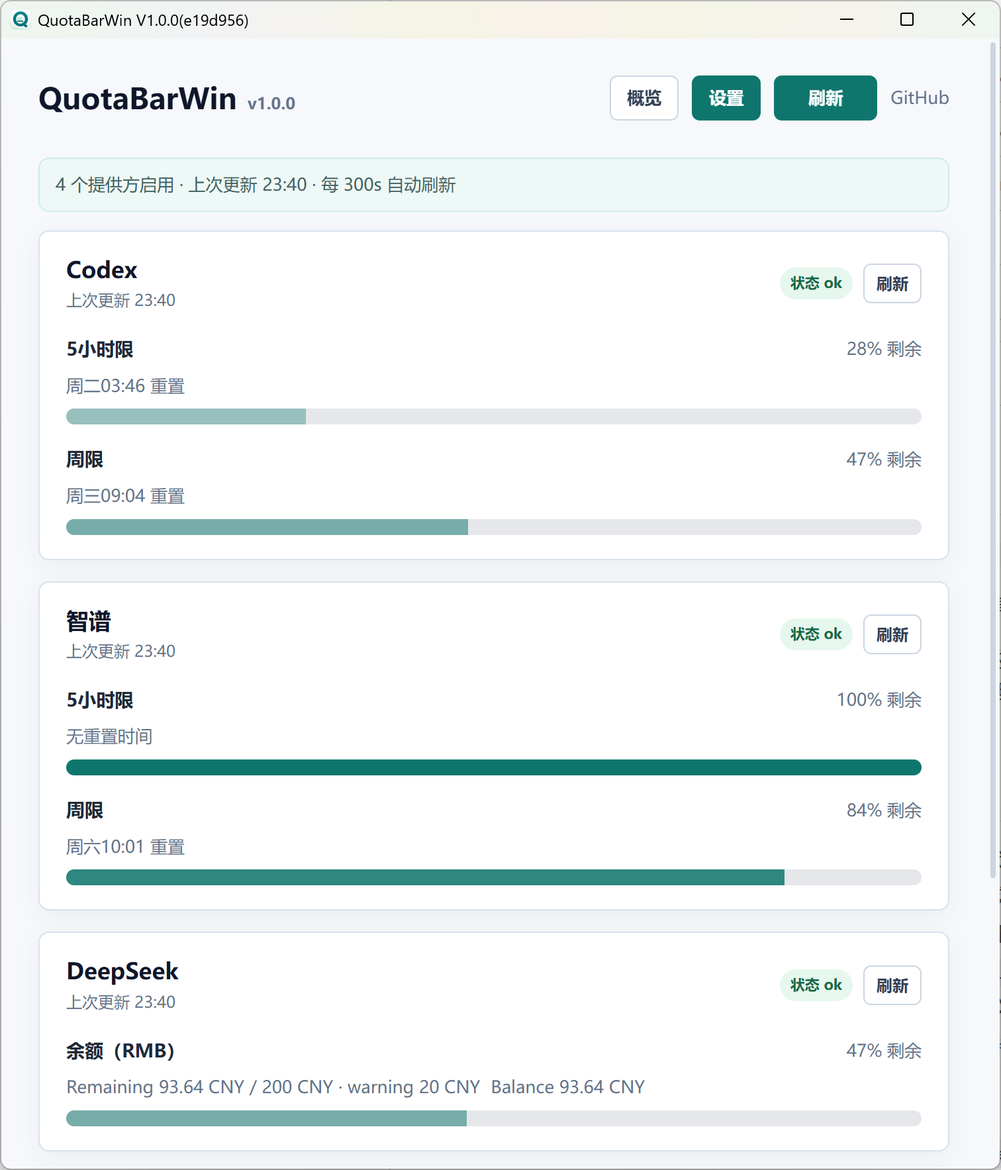
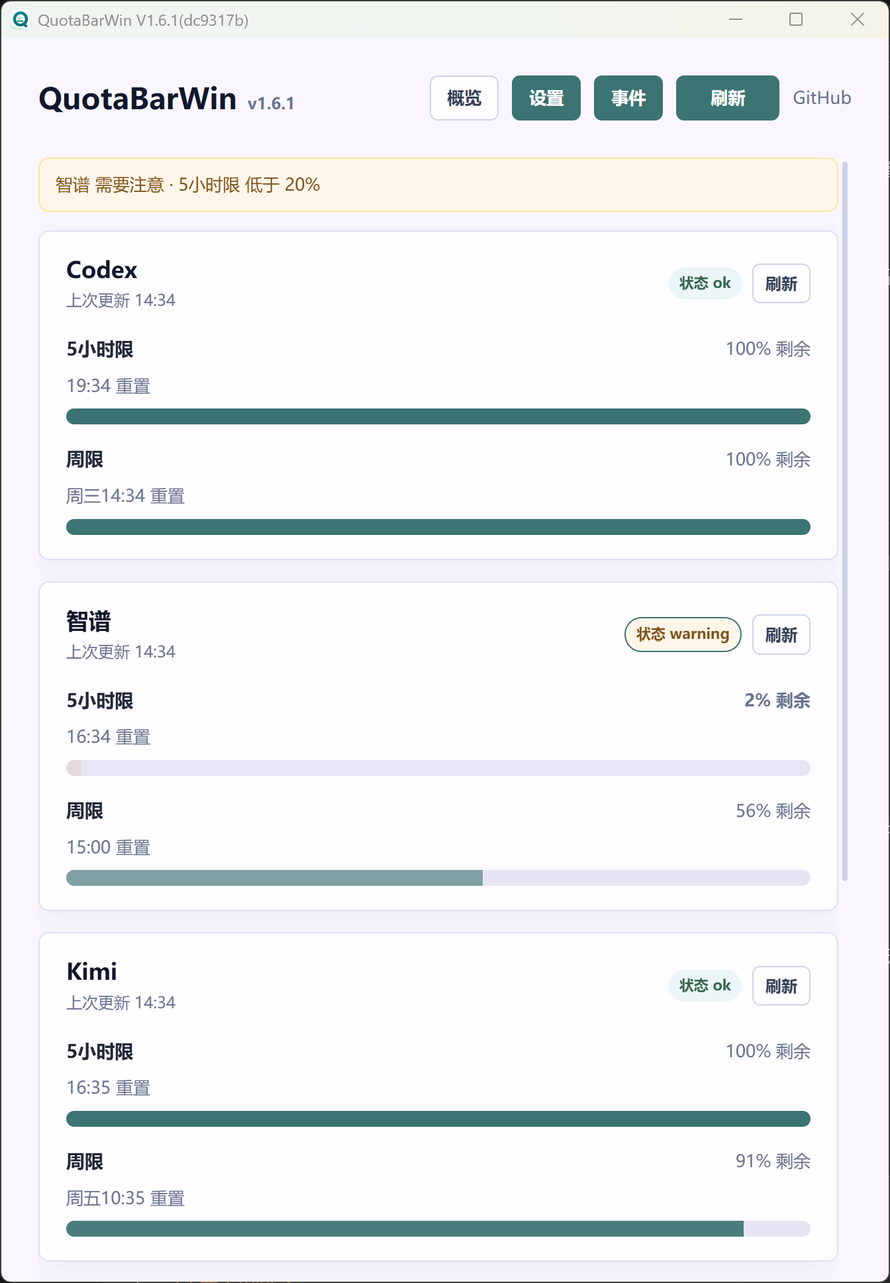
docs: refresh screenshots, link the changelog, and add its English edition
- README (both languages) now shows the 1.6.1 screenshots in order:
  overview, settings Providers, settings General, settings
  Notifications, events, tray popup — replacing the single outdated
  settings capture
- Both READMEs link the changelog from the documentation index
- New CHANGELOG.en.md mirrors all 23 release sections of CHANGELOG.md
  (UI wording follows the app's English strings); the Chinese header now
  cross-links it, and AGENTS.md notes the two files must stay in sync

diff --git a/CHANGELOG.en.md b/CHANGELOG.en.md
@@ -1,0 +1,282 @@
+# Changelog
+
+This file records user-visible changes in QuotaBarWin. Simplified Chinese counterpart: [CHANGELOG.md](CHANGELOG.md).
+
+## [1.6.1] - 2026-10-07
+
+### Added
+
+- Windows system notifications now append the local time of the event (`MM-DD HH:mm`) to the end of the notification body.
+- Added a "Quota expiry time changed" event: a window that consumed no quota at all in the previous cycle is now recorded as this event when its cycle rolls over (including the expiry times before and after the change), instead of as "Quota reset"; the event is excluded from notifications by default and can be enabled individually under Settings → Notifications.
+- Webhook notifications support multiple endpoints (each with its own URL, message template, and timeout). Events are delivered to every enabled endpoint, and one endpoint failing does not affect the others. Each endpoint can define a custom message template: when set, each selected event renders and sends its own request, with placeholders such as `{{message}}` (the notification body including the event time), `{{eventType}}`, `{{providerName}}`, `{{windowLabel}}`, `{{occurredAt}}`, and `{{eventJson}}`; a rendered body that parses as valid JSON is sent as JSON, otherwise as plain text; leaving the template empty keeps the previous JSON batch format. Next to the template input in Settings, a new "Open the webhook template guide" entry opens the built-in offline bilingual guide (with the full placeholder table, the default JSON batch structure, and template examples for DingTalk, Feishu, and similar services).
+
+### Changed
+
+- All in-app confirmation dialogs (reset config, clear event history, migrate Provider source, etc.) now use the app's own styling instead of system dialogs with browser chrome; the notice shown when a duplicate launch is rejected is now an in-window toast as well.
+- Configuration backup files (from migration, reset, and corruption recovery) are now collected under the `bak` subdirectory of the configuration directory instead of sitting flat next to the config; on first run the app also sweeps leftover backups from older versions into `bak` automatically.
+
+### Fixed
+
+- Fixed quota-reset event detection: a window with no usage at all (staying at 0% for a long time) was misrecorded as "Quota reset" and repeatedly notified at every cycle rollover; when a provider temporarily stopped reporting the reset time right after a window rolled over (with usage already zeroed), that reset was missed; a window that rolled over earlier than previously announced (reset time moved earlier and quota emptied) was misjudged as "Unexpected quota recovery" instead of "Quota reset". All of these scenarios are now classified correctly, and "Unexpected quota recovery" is reserved for quota reappearing mid-cycle while the reset time is completely unchanged.
+- Fixed the Settings page still prompting for a manual save after "Reset config": a reset now takes effect immediately and syncs the Settings page state, so no extra save click is needed.
+- Fixed the tray popup header (title, buttons, status line) sitting too close to the left and right edges of the popup.
+
+## [1.6.0] - 2026-10-06
+
+### Added
+
+- Added an in-app event history page (the "Events" tab at the top of the main window): it records events such as application started, upgrade completed, quota reset, unexpected quota recovery, quota exhausted, quota low, and Provider refresh failures and recoveries, with category filters, refresh, and clear actions; startup events record the version at that time (including the short commit hash). Events are stored only in the local configuration directory, capped at 200 entries.
+- Added quota event notifications, enableable under Settings → Notifications: two channels are supported, Windows system notifications (toast) and webhooks, and the event types to notify can be selected individually. Windows notifications now use the QuotaBarWin branded icon; when Windows system notifications are turned off, the app automatically clears the local notification registration (AppUserModelID), so no manual cleanup is needed. "Send test notification" uses the values currently entered in the form, so there is no need to save first.
+- Webhook notifications deliver the selected events as a JSON POST to the configured address; the URL supports `${secret:NAME}`, `${env:NAME}`, and `${file:...}` placeholders so token-bearing addresses are not written into the config in plaintext; requests follow the app's global proxy settings, and delivery failures are recorded only in redacted local logs.
+- Notifications are evaluated after each refresh confirms a change, so they arrive on the next refresh after the change happens (default interval 300 seconds, adjustable in Settings).
+- Added an "Open guide" entry at the bottom of the Settings page's left navigation, which opens the built-in remote Provider usage guide at any time.
+
+### Changed
+
+- The Settings page is reorganized into five categories (Providers / General / Notifications / Application update / Advanced), switched via the left navigation: the network proxy, local integration API, secret security, configuration storage, and logging settings moved into Advanced; the low-quota warning threshold is now edited on the Notifications page, while General shows a summary with a one-click jump. The save flow for all settings (bottom save bar / Ctrl+S) and the config file format are unchanged, so existing configuration needs no reconfiguration.
+- The network proxy no longer requires choosing between HTTP and SOCKS5 manually: after selecting "Custom proxy", the protocol prefix of the address (`http://`, `socks5://`, etc.) is detected automatically, and existing configuration remains fully compatible.
+- Closing the main window with unsaved settings changes now asks whether to save or discard before hiding to the tray, so changes are not lost by accident.
+- Copying the config file path or the portable marker path in Configuration storage now shows a "Path copied to the clipboard" notice instead of copying silently.
+- The built-in usage guide now uses the "Provider" naming throughout and organizes its instructions and examples around the built-in QuickJS runtime (`builtin-js`) as the recommended path.
+
+### Fixed
+
+- Fixed Provider card shadows being clipped on the left and right sides in the tray popup, and restored the spacing between the header area and the popup edges.
+
+## [1.5.2] - 2026-10-05
+
+### Added
+
+- The Secret security encryption migration now also covers manually created txt secret files under the `secrets` directory (including the startup migration prompt and the plaintext count): once encrypted, these files still resolve through the same `${secret:NAME}` placeholder, but they can no longer be edited directly in a text editor; disabling encryption restores them to plaintext.
+- When encryption is enabled but plaintext secret files are still detected (for example, encryption was enabled on an older version whose migration did not cover hand-managed files at the time), Secret security now shows an "Encrypt remaining plaintext secrets" button that completes the migration in one click, without toggling encryption off and on again.
+
+### Fixed
+
+- Right-clicking inside the app no longer opens the WebView's built-in web menu (entries such as "Refresh" reload the interface, which conflicts with how the app behaves); Cut/Copy/Paste from right-clicking input fields still work, and shortcuts such as Ctrl+C on selected text are unaffected.
+
+## [1.5.1] - 2026-10-05
+
+### Fixed
+
+- When a Provider bumps only its version number without changing the script (for example, an official Provider moving from 1.1.0 to 1.2.0), "Check Updates" now correctly reports an available update and can apply it, instead of showing the old version and claiming it is up to date.
+- After copying or moving the portable app directory, the Provider cache no longer follows the old directory: the cache is always resolved beside the current app directory, so deleting or updating Providers in the copied instance no longer removes or overwrites the cache in the original directory.
+- When the Provider cache directory is missing or corrupted (for example, accidentally deleted), refreshing now repairs it automatically by re-downloading from the configured manifest URL, instead of requiring the Provider to be added again manually to restore readings.
+- The CLI's `validate --provider` likewise validates the Provider cache beside the active configuration directory; a missing cache now produces an actionable hint (refresh once in the app to repair it automatically) instead of relying on stale paths recorded in the config.
+
+## [1.5.0] - 2026-10-05
+
+### Added
+
+- Provider secrets support local encrypted storage: secrets are encrypted with Windows data protection (DPAPI), and the ciphertext can only be decrypted by the current Windows account. Newly saved secrets are encrypted by default; users upgrading from older versions see a one-time confirmation prompt on first launch asking whether to migrate existing plaintext secrets to encrypted storage, and encryption can also be enabled or disabled later in the Settings page's Secret security section.
+
+### Fixed
+
+- After an update check fails temporarily (for example, the update server is briefly unreachable), a previously detected update can still be downloaded normally, instead of incorrectly demanding a fresh check first.
+- An already downloaded update package is no longer discarded because a later update check fails, so it does not need to be downloaded again.
+- After restarting the app, a previously detected update can still be downloaded directly: the signed manifest is re-verified offline and the downloaded package is reused, even when the update server is temporarily unreachable.
+- Downloading a large update package over a slow connection no longer breaks on a fixed 30-second total timeout; the download timeout now scales with the package size.
+- Provider refresh network problems no longer show as a single cryptic HTTP error: a timed-out request reports the timeout in seconds and the domain that did not respond, a failed connection reports the specific reason, and when a proxy is configured the message clearly notes that traffic goes through the proxy, making it easier to tell proxy problems from target API problems.
+- URLs in logs and the UI now keep the domain name, making it easier to see which API failed; paths, query strings, and credentials remain hidden.
+- When adding a Provider, the "View guide" link below the secret input now opens the help documentation in the system browser correctly.
+
+## [1.4.2] - 2026-09-19
+
+### Fixed
+
+- The tray popup no longer retains the previous keyboard focus when reopened, avoiding stray focus rings and Enter accidentally triggering the previously selected button.
+
+## [1.4.1] - 2026-08-24
+
+### Fixed
+
+- A temporarily failed application update check is retried automatically, so later checks on the same day are not skipped.
+- When a manual check finds a new version, the main window and tray popup show the update notice promptly.
+- The main window and tray popup now keep a minimum size at which they still render correctly, preventing broken layouts when scaled too small.
+
+## [1.4.0] - 2026-08-24
+
+### Added
+
+- Added theme selection in Settings: follow the Windows system theme, or pin the app to the light or dark theme.
+- The main window and tray popup both apply the selected theme consistently.
+
+### Fixed
+
+- After a newly added Provider completes "Save and test", it now refreshes immediately and appears in the overview, without waiting for the background scheduled refresh.
+
+## [1.3.0] - 2026-08-20
+
+### Added
+
+- Added a local integration HTTP API that on-device automation, scripts, browser extensions, and other desktop tools can use to read quota snapshots or trigger refreshes directly.
+- Added "Local Integration API" in Settings: start or stop the service, change the port, and choose to listen on the loopback address, multiple active IPv4/IPv6 adapters, or all active adapters.
+
+### Security
+
+- Disabled by default; when enabled, it listens only on `127.0.0.1`. Network listeners can keep the token-free loopback address at the same time; enabling external adapters requires saving a manually entered or randomly generated Bearer token first, and network listener settings cannot be saved without a stored token; a saved token is displayed masked and can be copied, replaced, or regenerated.
+- API responses never include Provider metadata, diagnostics, or sensitive error content, and the API provides no way to write configuration, Providers, or credentials.
+
+## [1.2.3] - 2026-08-15
+
+### Changed
+
+- "Automatically check for application updates" is enabled by default; users can still turn it off in Settings at any time.
+- Improved temporary file cleanup after an application update.
+
+## [1.2.2] - 2026-08-15
+
+### Added
+
+- Added an "Automatically check for application updates" toggle in Settings. Once after 08:00 local time each day, the first opening of the main window or the tray popup checks for a new version.
+- When an update is found, both the main window and the tray popup show an upgrade notice with a direct path to the update.
+
+### Changed
+
+- Improved the application update flow and the browsing experience of the overview and Settings pages.
+
+## [1.2.1] - 2026-08-03
+
+### Fixed
+
+- When the main window regains focus, or when switching back from Settings to the overview, the latest native quota cache is read immediately and the interface refreshes.
+- The background scheduled refresh keeps running independently and continues updating the cache while the main window is hidden or not in the foreground.
+
+## [1.2.0] - 2026-07-31
+
+### Added
+
+- After a Provider is installed, the app goes straight into a structured configuration form; once the account information is filled in and "Save and test" succeeds, the Provider is enabled automatically.
+- The app automatically creates an isolated local secret file for each Provider instance and parameter, and the main config keeps only the `${secret:providers/...}` reference.
+- Provider settings gained Pending setup, Unverified, Ready, and Needs attention states, plus actionable setup and repair entries.
+- Official Provider manifests gained API Key help links and advanced field markers.
+- The global network proxy gained an availability check: it visits the GitHub homepage by default, and a custom HTTPS check URL can be specified for the test only.
+
+### Changed
+
+- Newly installed Providers stay disabled until they pass verification and do not participate in scheduled refreshes; a failed test keeps the safely saved configuration and leaves the Provider disabled.
+- The normal configuration path no longer requires creating a secret directory, typing placeholders, or editing raw environment variables; raw envVars and legacy placeholders remain available for advanced users and third-party Providers.
+- Deleting a Provider now offers, by default, a confirmation option to clean up that instance's app-managed secret files; external files, environment variables, and hand-named secrets are never deleted.
+
+### Security
+
+- Saved secrets are never returned to the frontend, nor written into the main config, logs, errors, diagnostics, test snapshots, or copied diagnostics.
+- `${secret:...}`, `${env:...}`, `${file:...}`, legacy plaintext config, and the existing Provider runner/resolver all remain compatible; this version introduced no system credential store, DPAPI, custom encryption, or cross-device sync.
+- The proxy check does not save response content and does not return raw transport errors or proxy credentials to the frontend.
+
+## [1.1.1] - 2026-07-27
+
+### Fixed
+
+- Fixed "Apply Update" pushing "More" onto a second line and making the Provider card grow abnormally once a Provider update was detected.
+- Fixed the previous round's applicable-update button lingering and contradicting the failure notice when a later Provider update check fails.
+
+## [1.1.0] - 2026-07-27
+
+### Added
+
+- Built-in QuickJS Provider runtime: official Providers no longer depend on the user's local Node.js; Provider authors can use the sandboxed `qb` API to read declared environment variables, files, and HTTP endpoints.
+- Added complete `builtin-js` Provider author documentation, CLI instructions, and examples, covering permission declarations, the execution model, the output protocol, and the support boundary.
+
+### Changed
+
+- All maintained official Providers (Kimi, BigModel Coding Plan, DeepSeek, Codex Usage, 光阴似箭 (Time Flies)) have migrated to `builtin-js`.
+- Provider runtime proxies follow the app's explicit proxy policy; unless "System proxy" is selected, system HTTP(S) proxy environment variables are never read implicitly.
+- Provider update checks now follow the enabled source registry; results are shown directly on the corresponding Provider row, and updates can be applied one by one or all at once.
+
+### Fixed
+
+- Official `builtin-js` Providers now use manifest schema 2 and `minAppVersion`. Older app versions reject the update before downloading the new script and keep the still-working legacy Node Provider, preventing an automatic update from leaving the Provider unusable.
+- Fixed the Codex Provider's permission check referring to a path inconsistent with the actual `~/.codex/auth.json` file, and simplified the built-in JS error messages.
+- Fixed an inconsistency where the "Add Provider" page already showed the new source version while installed Providers still checked updates against the old manifest; applying the update switches to the same verified source.
+
+### Security
+
+- `builtin-js` restricts environment variables, files, and network access to the manifest-declared permissions, and reserves the `QBWIN_*` host variables for internal platform use.
+
+## [1.0.7] - 2026-07-23
+
+### Fixed
+
+- Fixed the tray popup restoring the window's outer frame size as the content size every time it was reopened from the tray when no manual size had been saved, causing the width and height to keep growing.
+
+## [1.0.6] - 2026-07-22
+
+### Fixed
+
+- The GitHub entry in the main interface and the "Release notes" link in the update area now open in the Windows default browser, avoiding unresponsive external links in the Tauri WebView.
+- The update settings page now shows the current app version on load, without requiring an update check first.
+
+## [1.0.5] - 2026-07-22
+
+### Changed
+
+- Updated the app icon.
+
+### Fixed
+
+- Fixed the popup not always positioning itself based on the current tray click location when opened from the tray.
+
+## [1.0.4] - 2026-07-21
+
+### Added
+
+- Added the portable app update foundation powered by DeskFoundry `desktop-updater`: a signed GitHub Raw update manifest, GitHub Release ZIP downloads, SHA-256 verification, file replacement by a standalone helper, and startup-confirmed rollback.
+- Added an "Application update" check entry in Settings; once a new version is found, "Download and restart to update" can be run.
+
+### Security
+
+- App updates accept only Ed25519-signed manifests, and the ZIP may only overwrite executables in the release package whitelist; the portable marker, config, logs, secrets, Provider cache, and user files are all preserved.
+
+## [1.0.3] - 2026-07-15
+
+### Changed
+
+- The install-source proxy now applies only to downloading registries, manifests, and Provider scripts; the Provider runtime proxy now prefers its `QBWIN_PROXY_URL` environment variable and falls back to the app-wide proxy only when it is unset.
+- The config schema moved to 16; the upgrade clears the legacy Provider `proxyUrl` field left by older versions so it can no longer override the Provider's own runtime proxy configuration.
+
+### Fixed
+
+- Fixed an older network request returning after a newer one while the Provider directory was loading, which overwrote the successful list with an "install source has no data" error.
+
+## [1.0.2] - 2026-07-14
+
+### Added
+
+- Added the 光阴似箭 (Time Flies) Provider: shows the remaining time in minutes for today, this week (Monday/Sunday start), this month, and this year.
+- Settings can now control per Provider whether it appears in the tray popup; the default is to show it.
+
+### Changed
+
+- The main window and tray popup moved detailed quota numbers to hover, making the interface simpler by default; reset times remain visible.
+
+### Fixed
+
+- Fixed portable mode still writing the remote Provider cache to AppData. The cache now lives beside the active configuration directory; switching modes and the first launch of the new version migrate the old cache, and a failed migration rolls back to avoid a half-migrated state.
+
+## [1.0.1] - 2026-07-14
+
+### Fixed
+
+- Saving a remote Provider source now keeps the Settings page, returns to "Add Provider", and immediately refreshes the directory using the latest proxy.
+- The source proxy input hint now states clearly that HTTP and SOCKS5 URLs are supported.
+- Fixed the tray popup auto-height counting blank space as content height when there is a single quota window, and prevented the auto-height from retriggering in a loop while the user resizes the window.
+
+## [1.0.0] - Initial release
+
+### Added
+
+- Windows-first Tauri 2 desktop app with a main window and a tray popup.
+- Remote Provider model with external Provider scripts installed from a registry / manifest.
+- Provider enable/disable, ordering, window visibility control, window label overrides, manual refresh, and automatic refresh.
+- AppData and portable configuration modes, covering logs, secrets, the remote Provider cache, and the snapshot disk cache.
+- Global and per-Provider network proxies supporting HTTP and SOCKS5.
+- Secret placeholders: `${secret:NAME}`, `${env:NAME}`, `${file:C:\path\secret.txt}`.
+- Diagnostics export, structured redacted logs, and log rotation.
+- Windows portable zip release workflow.
+
+### Security
+
+- Remote Provider stdout accepts only the final JSON payload; stderr goes into redacted logs and diagnostics.
+- The snapshot disk cache strips Provider `metadata`.
+- The Tauri WebView enables a baseline CSP.
+- Added a security disclosure process, dependency review, Dependabot, and npm audit checks ahead of open-sourcing.

diff --git a/README.en.md b/README.en.md
@@ -15,6 +15,7 @@ Default documentation is Simplified Chinese: [README.md](README.md).
 ## Documentation
 
 - [Simplified Chinese README](README.md)
+- [Changelog](CHANGELOG.en.md) ([Simplified Chinese](CHANGELOG.md))
 - [Remote Provider Guide](docs/remote-provider-guide.en.md)
 - [Local Integration API](docs/local-integration-api.en.md)
 - [Agent / CLI Guide](docs/cli.en.md)
@@ -39,14 +40,20 @@ Default documentation is Simplified Chinese: [README.md](README.md).
 
 ## Screenshots
 
-The main window includes an overview page and a settings page. The tray popup is optimized for quick quota checks.
+The main window includes the overview, event history, and categorized settings pages. The tray popup is optimized for quick quota checks.
 
 <p align="center">
   <img src="assets/screenshots/readme-zh-overview.png" alt="QuotaBarWin overview screenshot" width="49%">
-  <img src="assets/screenshots/readme-zh-settings.png" alt="QuotaBarWin settings screenshot" width="49%">
+  <img src="assets/screenshots/readme-zh-settings-providers.png" alt="QuotaBarWin settings Providers category screenshot" width="49%">
 </p>
 
 <p align="center">
+  <img src="assets/screenshots/readme-zh-settings-general.png" alt="QuotaBarWin settings General category screenshot" width="49%">
+  <img src="assets/screenshots/readme-zh-settings-notification.png" alt="QuotaBarWin settings Notifications category screenshot" width="49%">
+</p>
+
+<p align="center">
+  <img src="assets/screenshots/readme-zh-events.png" alt="QuotaBarWin event history screenshot" width="49%">
   <img src="assets/screenshots/readme-zh-tray-popup.png" alt="QuotaBarWin tray popup screenshot" width="42%">
 </p>
 

diff --git a/README.md b/README.md
@@ -15,6 +15,7 @@ macOS 用户可以使用或参考 [CodexBar](https://github.com/steipete/CodexBa
 ## 文档入口
 
 - [English README](README.en.md)
+- [变更记录](CHANGELOG.md)（[English](CHANGELOG.en.md)）
 - [远程提供方作者指南](docs/remote-provider-guide.md)
 - [本地集成 API](docs/local-integration-api.md)
 - [Agent / CLI 使用指南](docs/cli.md)
@@ -39,14 +40,20 @@ macOS 用户可以使用或参考 [CodexBar](https://github.com/steipete/CodexBa
 
 ## 运行截图
 
-主窗口提供概览页和设置页；托盘弹窗用于快速查看关键额度。
+主窗口提供概览、事件历史和分类设置页；托盘弹窗用于快速查看关键额度。
 
 <p align="center">
   <img src="assets/screenshots/readme-zh-overview.png" alt="QuotaBarWin 中文版概览页截图" width="49%">
-  <img src="assets/screenshots/readme-zh-settings.png" alt="QuotaBarWin 中文版设置页截图" width="49%">
+  <img src="assets/screenshots/readme-zh-settings-providers.png" alt="QuotaBarWin 中文版设置页提供方分类截图" width="49%">
 </p>
 
 <p align="center">
+  <img src="assets/screenshots/readme-zh-settings-general.png" alt="QuotaBarWin 中文版设置页通用分类截图" width="49%">
+  <img src="assets/screenshots/readme-zh-settings-notification.png" alt="QuotaBarWin 中文版设置页通知分类截图" width="49%">
+</p>
+
+<p align="center">
+  <img src="assets/screenshots/readme-zh-events.png" alt="QuotaBarWin 中文版事件历史页截图" width="49%">
   <img src="assets/screenshots/readme-zh-tray-popup.png" alt="QuotaBarWin 中文版托盘弹窗截图" width="42%">
 </p>
 

diff --git a/AGENTS.md b/AGENTS.md
@@ -25,7 +25,8 @@ they exist.
 
 ## Release Notes
 
-- `CHANGELOG.md` is the source of GitHub Release notes.
+- `CHANGELOG.md` is the source of GitHub Release notes; keep
+  `CHANGELOG.en.md` (the English counterpart) in sync when adding entries.
 - Release notes describe only user-visible differences from the immediately
   preceding released version. They are not an internal iteration log.
 - Exclude implementation details, preview/demo switches, test or build steps,

diff --git a/CHANGELOG.md b/CHANGELOG.md
@@ -1,6 +1,6 @@
 # 变更记录
 
-本文记录 QuotaBarWin 的用户可见变化。默认以简体中文维护；如果未来需要英文 release notes，可从本文件同步整理。
+本文记录 QuotaBarWin 的用户可见变化。默认以简体中文维护；英文对照版见 [CHANGELOG.en.md](CHANGELOG.en.md)。
 
 ## [1.6.1] - 2026-10-07
 
